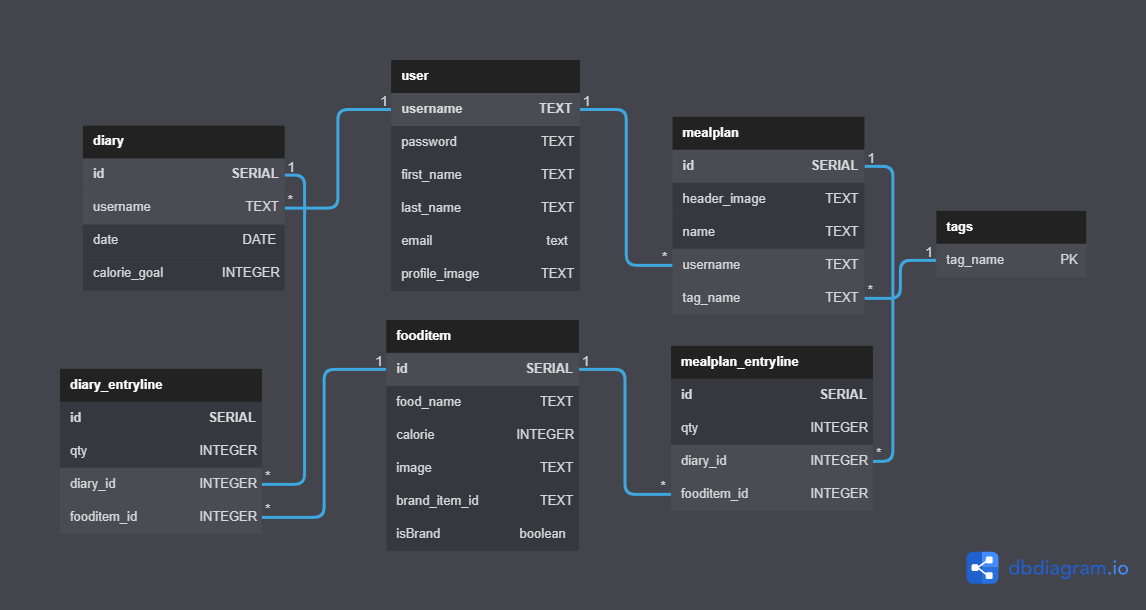
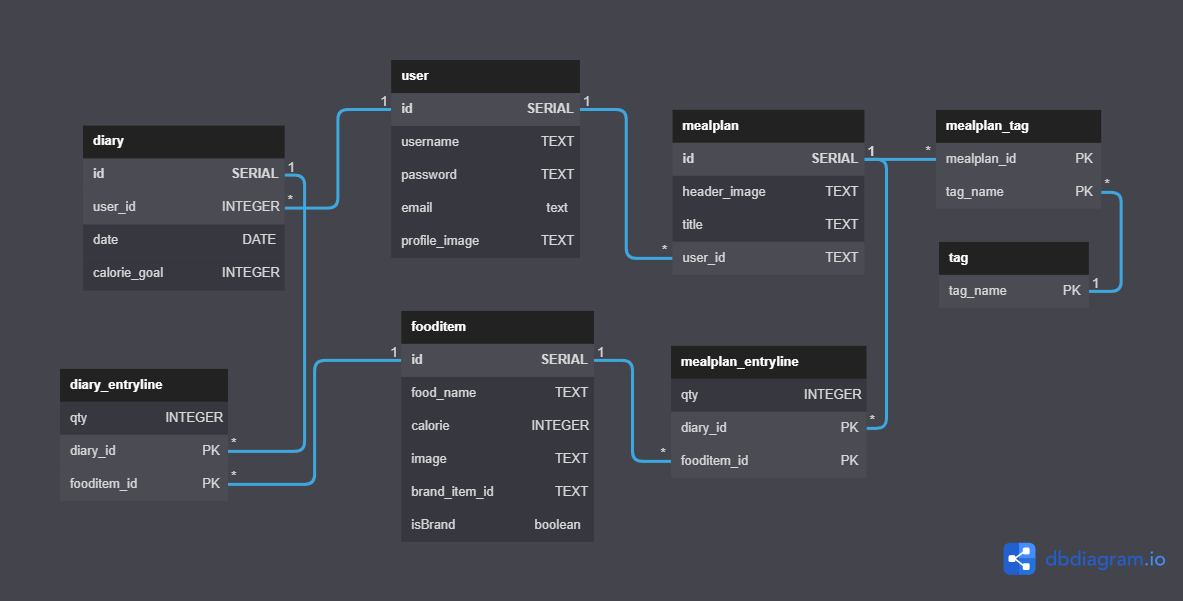
updated database schema, coded SQLALchemy models

diff --git a/backend/models.py b/backend/models.py
@@ -1,0 +1,220 @@
+""" SQLAlchemy models for Nutrition Tracker """
+
+from flask_bcrypt import Bcrypt
+from flask_sqlalchemy import SQLAlchemy
+
+bcrypt = Bcrypt()
+db = SQLAlchemy()
+
+class User(db.Model):
+    """User in the system"""
+        __tablename__ = 'user'
+
+    id = db.Column(
+        db.Integer,
+        primary_key=True,
+    )
+
+    email = db.Column(
+        db.Text,
+        nullable=False,
+        unique=True,
+    )
+
+    username = db.Column(
+        db.Text,
+        nullable=False,
+        unique=True,
+    )
+
+    profile_image_url = db.Column(
+        db.Text,
+        default="/static/images/default-pic.png",
+    )
+
+    password = db.Column(
+        db.Text,
+        nullable=False,
+    )
+
+    diaries = db.relationship('Diary', back_populates="user")
+    mealplans = db.relationship('Mealplan', back_populates="user")
+
+class Fooditem(db.Model):
+    """An individual food item"""
+    __tablename__="fooditem"
+
+    id = db.Column(
+        db.Integer,
+        primary_key=True,
+    )
+
+    food_name = db.Column(
+        db.Text,
+        nullable=False
+    )
+
+    calorie = db.Column(
+        db.Integer,
+        nullable=False
+    )
+
+    image = db.Column(
+        db.Text
+    )
+
+    brand_item_id = db.Column(
+        db.String
+    )
+
+    isBrand = db.Column(
+        db.Boolean
+        nullable=False
+    )
+
+class Diary(db.Model):
+    """An individual dialy food diary"""
+    __tablename__="diary"
+    
+    id = db.Column(
+        db.Integer,
+        primary_key=True,
+    )
+
+    user_id = db.Column(
+        db.Integer,
+        db.ForeignKey('users.id', ondelete='CASCADE'),
+        nullable=False
+    )
+
+    date = db.Column(
+        db.Date,
+        nullable=False
+    )
+
+    calorie_goal = db.Column(
+        db.Integer,
+        nullable=False
+    )
+
+    user = db.relationship('User', back_populates='diaries')
+    entryline = db.relationship('DiaryEntryLine', back_populates="diary")
+
+class DiaryEntryLine(db.Model):
+    """Mapping Diary to EntryLine and an EntryLine to Fooditem"""
+    __tablename__="diary_entryline"
+
+    diary_id = db.Column(
+        db.Integer,
+        db.ForeignKey('diary.id', ondelete="cascade"),
+        primary_key=True
+    )
+
+    fooditem_id = db.Column(
+        db.Integer,
+        db.ForeignKey('fooditem.id', ondelete="cascade"),
+        primary_key=True
+    )
+
+    quantity = db.Column(
+        db.Integer,
+        default=1
+    )
+
+    fooditem = db.relationship('Fooditem')
+    diary = db.relationship('Diary', back_populates="entryline")
+
+class Mealplan(db.Model):
+    """An individual mealplan"""
+    __tablename__="mealplan"
+    
+    id = db.Column(
+        db.Integer,
+        primary_key=True,
+    )
+
+    title = db.Column(
+        db.Text,
+        nullable=False,
+    )
+
+    user_id = db.Column(
+        db.Integer,
+        db.ForeignKey('users.id', ondelete='CASCADE'),
+        nullable=False
+    )
+
+    header_image = db.Column(
+        db.Text
+    )
+
+
+    user = db.relationship('User', back_populates='mealplans')
+    entryline = db.relationship('MealplanEntryLine', back_populates="mealplan")
+    tags = db.relationship('Tag',
+                            secondary='mealplan_tag',
+                            back_populates='mealplans')
+
+
+class MealplanEntryLine(db.Model):
+    """Mapping Mealplan to EntryLine and an EntryLine to Fooditem"""
+    __tablename__="mealplan_entryline"
+
+    diary_id = db.Column(
+        db.Integer,
+        db.ForeignKey('mealplan.id', ondelete="cascade"),
+        primary_key=True
+    )
+
+    fooditem_id = db.Column(
+        db.Integer,
+        db.ForeignKey('fooditem.id', ondelete="cascade"),
+        primary_key=True
+    )
+
+    quantity = db.Column(
+        db.Integer,
+        default=1
+    )
+
+    fooditem = db.relationship('Fooditem')
+    mealplan = db.relationship('Mealplan', back_populates="entryline")
+
+class Tag(db.Model):
+    """Tags for dietary options"""
+
+    __tablename__="tag"
+
+
+    name = db.Column(
+        db.Text,
+        primary_key=True
+    )
+
+    mealplans = db.relationship('Mealplan',
+                                secondary='mealplan_tag' 
+                                back_populates="tags")
+
+class MealplanTag(db.Model):
+    """ Conection for Mealplan <---> Tag """
+
+    __tablename__="mealplan_tag"
+
+    mealplan_id = db.Column(
+        db.Integer,
+        db.ForeignKey('mealplan.id', ondelete='cascade')
+    )
+
+    tag_name = db.Column(
+        db.Text,
+        db.ForeignKey('tag.name', ondelete='cascade')
+    )
+
+    
+def connect_db(app):
+    """Connect this database to provided Flask app.
+    This will be called in the Flask app.
+    """
+
+    db.app = app
+    db.init_app(app)
